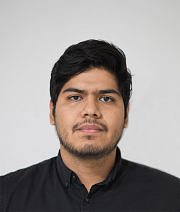
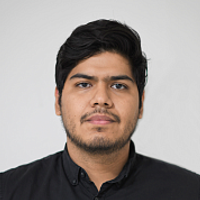
MOD: profile png image

diff --git a/index.html b/index.html
@@ -35,7 +35,7 @@
 <body>
     <header class="header">
         <div class="container">
-            <img class="profile-image img-responsive pull-left img-circle" src="assets/images/profile.png" alt="Jorge Rodriguez" style="width:200px;height:200px" />
+            <img class="profile-image img-responsive pull-left img-circle" src="assets/images/profile.jpg" alt="Jorge Rodriguez" style="width:200px;height:200px" />
             <div class="profile-content">
                 <h1 class="name">Jorge Ernesto Rodríguez Higuera</h1>
                 <h2 class="desc">Information and communications technology engineer</h2>   
